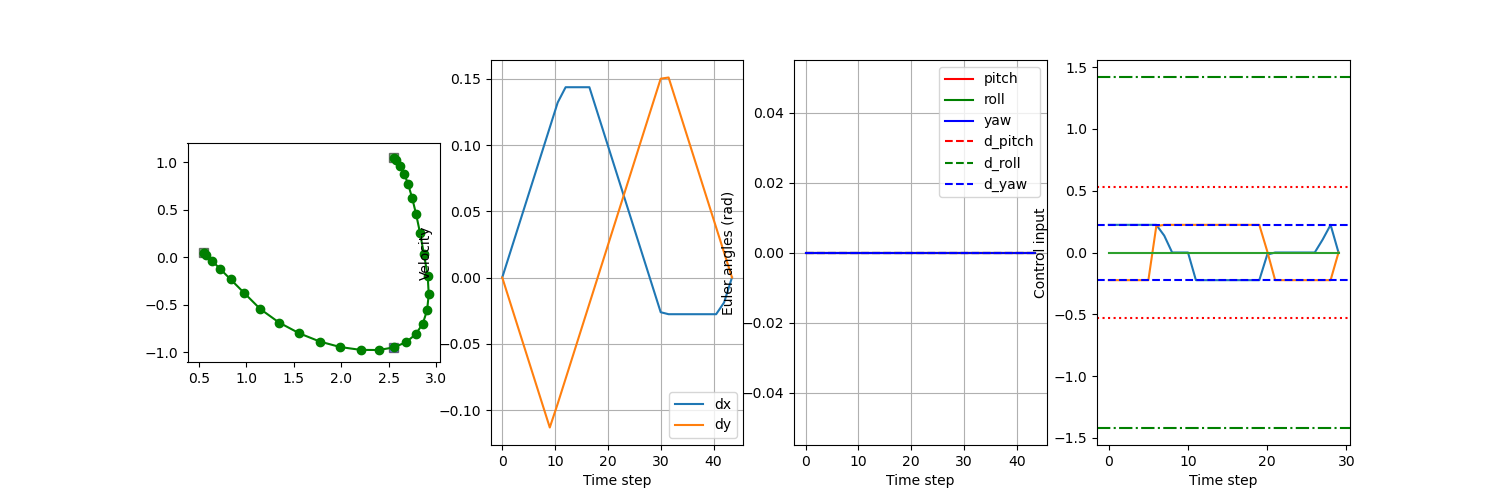
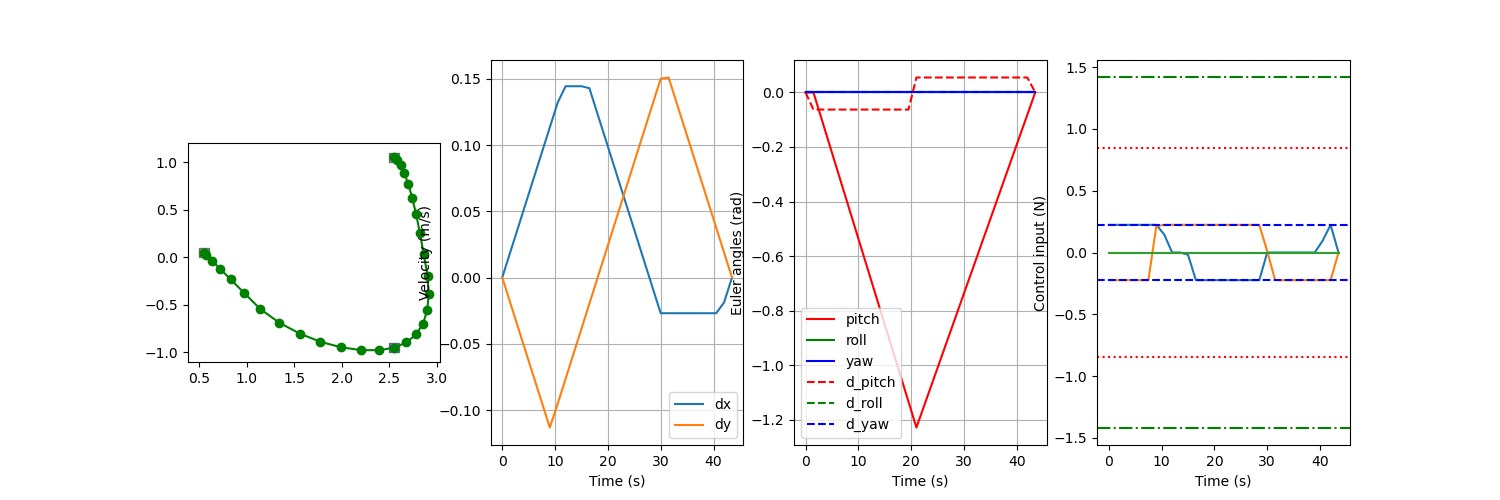
small fixes to plotting, changed rotation order

diff --git a/stl_mapping/Planning/main.py b/stl_mapping/Planning/main.py
@@ -50,25 +50,25 @@ sp_robot = LinearFreeFlyer6DoF()
 # ])
 # spec = Spec(phi, t0, tf)
 
-euler_order = 'xyz'
+euler_order = 'zyx'
 
 X0 = HyperRectangle(np.array([0.5, 0, 0]), np.array([0.6, 0.1, 0.1]))
 Xf = HyperRectangle(np.array([2.5, 1.0, 0]), np.array([2.6, 1.1, 0.1]))
 XA = HyperRectangle(np.array([2.5, -1.0, 0,  -np.pi/2-np.pi/8]), np.array([2.6, -0.9, 0.1,  -np.pi/2+np.pi/8]))
-XA = HyperRectangle(np.array([2.5, -1.0, 0]), np.array([2.6, -0.9, 0.1]))
+# XA = HyperRectangle(np.array([2.5, -1.0, 0]), np.array([2.6, -0.9, 0.1]))
 Obs = []
 World = HyperRectangle(np.array([0, -1.5, -10, -10]), np.array([4, 1.5, 10, 10]))
 phi = Pred("AND", preds=[
     Pred("G", [t0,t0], preds=[Pred("MU", preds=[Polytope(X0)], dims=[0,1,2])]),
     Pred("G", [tf,tf], preds=[Pred("MU", preds=[Polytope(Xf)], dims=[0,1,2])]),
-    Pred("F", [t0,tf], preds=[Pred("MU", preds=[Polytope(XA)], dims=[0,1,2])]), # 3: pitch, 4: roll, 5: yaw
+    Pred("F", [t0,tf], preds=[Pred("MU", preds=[Polytope(XA)], dims=[0,1,2, 3])]), # 3: pitch, 4: roll, 5: yaw
     Pred("G", [t0,tf], preds=[Pred("MU", preds=[Polytope(World)], dims=[0,1,6,7])]),
 ])
 spec = Spec(phi, t0, tf)
 
 
 # create planner
-if False:
+if True:
     opt = gp.Model("prob1")
     x_vars = opt.addMVar((N, sp_robot.n_x), lb=-np.inf, ub=np.inf, name="X")
     u_vars = opt.addMVar((N, sp_robot.n_u), lb=-np.inf, ub=np.inf, name="U")
@@ -100,7 +100,7 @@ if False:
     opt.addConstr(act_int_var == gp.quicksum([act_abs_var[i,j] for i in range(N) for j in range(sp_robot.n_u)]), name="act_int_sum")
     opt.addConstr(cost_var == 1*alpha_vars - 10000*spec.phi.rho + 0.0001*act_int_var) # quad_cost
     opt.setObjective(cost_var, gp.GRB.MINIMIZE)
-    opt.setParam('OutputFlag', 1)  # Suppress Gurobi output
+    opt.setParam('OutputFlag', 0)  # Suppress Gurobi output
     opt.optimize()
     if opt.status == gp.GRB.OPTIMAL:
         print(f"Optimal solution found")
@@ -138,9 +138,9 @@ plot_planning_results(sp_robot, t_sp, x_ff, u_ff, X0, Xf, [XA], Obs, alpha=alpha
 x_ff_quat = np.zeros((x_ff.shape[0], x_ff.shape[1] + 1))
 for i in range(x_ff.shape[0]):
     x_ff_quat[i,:] = euler_x_to_quat_x_np(x_ff[i, :],order=euler_order)
-# print(f"euler: {x_ff[:, 3:6]}")
-# print(f"quat:  {x_ff_quat[:, 3:7]}")
-# print(f"euler: {np.array([quat_to_euler_np(x[3:7], order=euler_order) for x in x_ff_quat])}")
+print(f"euler: {x_ff[:, 3:6]}")
+print(f"quat:  {x_ff_quat[:, 3:7]}")
+print(f"euler: {np.array([quat_to_euler_np(x[3:7], order=euler_order) for x in x_ff_quat])}")
 
 np.savez('stl_mapping/Planning/solutions/sp_solution_quat.npz', x_ff=x_ff_quat, u_ff=u_ff, dt=dt, alpha=alpha, times=t_sp)
 
@@ -190,6 +190,20 @@ u_max = np.max(np.abs(u_uw), axis=0)
 print(f"\nAlpha if u_fbl(x_sp,u_sp) applied to BlueROV directly: {np.max(u_max/uw_robot.U.upper_bounds)}")
 print(f"U should become {np.max(u_max)/alpha} for same alpha (was {uw_robot.U.upper_bounds[0]}) which is {(np.max(u_max)/alpha)/uw_robot.U.upper_bounds[0]*100}%")
 
+
+# # test if different backends are equal
+# uw_robot_cs = BlueROV(backend='cs')
+# uw_robot_np = BlueROV(backend='np')
+# for i in range(100):
+#     x = np.random.rand(13)
+#     u = np.random.rand(6)
+#     x_cs = cs.DM(x)
+#     u_cs = cs.DM(u)
+#     x_uw_cs = uw_robot_cs.step(x_cs, u_cs, dt)
+#     x_uw_np = uw_robot_np.step(x, u, dt)
+#     print(f"Step {i}: {x_uw_cs} == {x_uw_np}")
+
+
 # So now we have to find \phi (for now deltaT) such that
 # alpha for uw is equal to alpha for the free flyer
 # we have bilinear constraints so that is quite tricky but
@@ -211,16 +225,20 @@ if True:
     ocp.subject_to(dt_vars >= 0)
     ocp.subject_to(delta >= 0)
 
-    # for i in range(N):
-    #     ocp.subject_to(u_fbl_cs(x_vars[:,i],u_vars[:,i])[0:2] >= alpha*(uw_robot.U.lower_bounds[0:2]))
-    #     ocp.subject_to(u_fbl_cs(x_vars[:,i],u_vars[:,i])[0:2] <= alpha*(uw_robot.U.upper_bounds[0:2]))
+    for i in range(N):
+        # ocp.subject_to(u_fbl_cs(x_vars[:,i],u_vars[:,i])[0:2] >= alpha*(uw_robot.U.lower_bounds[0:2]))
+        # ocp.subject_to(u_fbl_cs(x_vars[:,i],u_vars[:,i])[0:2] <= alpha*(uw_robot.U.upper_bounds[0:2]))
+        # ocp.subject_to(u_vars[:,i] >= alpha * uw_robot.U.lower_bounds)
+        # ocp.subject_to(u_vars[:,i] <= alpha * uw_robot.U.upper_bounds)
+        ocp.subject_to(u_vars[:,i] >= alpha * u_fbl_cs(x_vars[:,i],uw_robot.U.lower_bounds))
+        ocp.subject_to(u_vars[:,i] <= alpha * u_fbl_cs(x_vars[:,i],uw_robot.U.upper_bounds))
 
     # constraints
     for i in range(N-1):
         ocp.subject_to(x_vars[:,i+1] == uw_robot.step(x_vars[:,i], u_vars[:,i], dt_vars))
     
     # enforce position equality with the free flyer
-    n_equal = 6 # first n_equal states 
+    n_equal = 7 # first n_equal states 
     for i in range(N):
         ocp.subject_to(x_vars[0:n_equal,i] <= x_uw_fbl_sp[i,0:n_equal] + delta* np.ones(n_equal))
         ocp.subject_to(x_vars[0:n_equal,i] >= x_uw_fbl_sp[i,0:n_equal] - delta* np.ones(n_equal))
@@ -240,6 +258,7 @@ if True:
         dt_uw = sol.value(dt_vars)
         t_uw = np.linspace(0, (N-1)*dt_uw, N)
         print(f"delta: {sol.value(delta)}")
+        print(f"dt_uw: {dt_uw}")
         # print(f"Solution found")
     except Exception as e:
         print(f"Solution not found: {e}")

diff --git a/stl_mapping/Utilities/plotting.py b/stl_mapping/Utilities/plotting.py
@@ -15,8 +15,8 @@ def plot_planning_results(robot, t, x, u, X0, Xf, ROIs, Obs, alpha=1.0,
 
     axs[1].plot(t, x[:, 6], label='dx')
     axs[1].plot(t, x[:, 7], label='dy')
-    axs[1].set_xlabel('Time step')
-    axs[1].set_ylabel('Velocity')
+    axs[1].set_xlabel('Time (s)')
+    axs[1].set_ylabel('Velocity (m/s)')
     axs[1].legend()
     axs[1].grid()
 
@@ -26,14 +26,14 @@ def plot_planning_results(robot, t, x, u, X0, Xf, ROIs, Obs, alpha=1.0,
     axs[2].plot(t, x[:, 9], 'r--', label='d_pitch')
     axs[2].plot(t, x[:, 10], 'g--', label='d_roll')
     axs[2].plot(t, x[:, 11], 'b--', label='d_yaw')
-    axs[2].set_xlabel('Time step')
+    axs[2].set_xlabel('Time (s)')
     axs[2].set_ylabel('Euler angles (rad)')
     axs[2].legend()
     axs[2].grid()
 
-    axs[3].plot(u[:,0])
-    axs[3].plot(u[:,1])
-    axs[3].plot(u[:,2])
+    axs[3].plot(t, u[:,0])
+    axs[3].plot(t, u[:,1])
+    axs[3].plot(t, u[:,2])
     axs[3].axhline(robot.U.lower_bounds[0], color='g', linestyle='-.', label="U_lb")
     axs[3].axhline(robot.U.upper_bounds[0], color='g', linestyle='-.')
     if hasattr(robot, 'U_effective'):
@@ -41,6 +41,6 @@ def plot_planning_results(robot, t, x, u, X0, Xf, ROIs, Obs, alpha=1.0,
         axs[3].axhline(alpha*robot.U_effective.upper_bounds[0], color='b', linestyle='--')
         axs[3].axhline(robot.U_effective.lower_bounds[0], color='r', linestyle=':', label="U_effective_lb")
         axs[3].axhline(robot.U_effective.upper_bounds[0], color='r', linestyle=':')
-    axs[3].set_xlabel('Time step')
-    axs[3].set_ylabel('Control input')
+    axs[3].set_xlabel('Time (s)')
+    axs[3].set_ylabel('Control input (N)')
     plt.savefig(path)

diff --git a/stl_mapping/Control/controllers/mpc_wrench.py b/stl_mapping/Control/controllers/mpc_wrench.py
@@ -44,7 +44,7 @@ from ..models_2d.atmos_wrench import atmos_model_wrench
 class MpcWrench():
     def __init__(self):
         # Define the controller parameters
-        self.dt = 0.1               # MPC time step [s]
+        self.dt = 0.2               # MPC time step [s]
         self.Nx = 30                # Prediction horizon, states             
         self.Nu = 30                # Prediction horizon, inputs
         self.Q = np.diag([          # State weighting matrix
@@ -52,7 +52,7 @@ class MpcWrench():
             2e0, 2e0, 1e0, 
             1e2, 
             5e0, 5e0, 5e0])             
-        self.R = 0.1*np.diag([          # State weighting matrix
+        self.R = np.diag([          # State weighting matrix
             1e0, 1e0, 1e0,
             1e0, 1e0, 1e0]) 
         self.P = 20 * self.Q        # Terminal state weighting matrix

diff --git a/stl_mapping/Utilities/Robots.py b/stl_mapping/Utilities/Robots.py
@@ -123,7 +123,8 @@ class LinearFreeFlyer6DoF(Robot):
             np.array([max_torque]*3) * scale_torque
         ])
         self.U = HyperRectangle(-u_max, u_max)
-        self.D = HyperRectangle(np.array([-1, -1, -1]),np.array([1, 1, 1]))
+        max_floor_force = (36*self.mass)/1000
+        self.D = HyperRectangle(np.array(3*[-max_floor_force]),np.array(3*[max_floor_force]))
 
         # self.U_effective = minkowski_difference(self.U, self.K@self.D)
         # TODO: deal with the fact that K and D are not of same dimension
@@ -160,6 +161,8 @@ class LinearFreeFlyer6DoF(Robot):
 
 class FreeFlyer(Robot):
     def __init__(self, backend='np'):
+        # state: x = [p, q, v, w]
+        # where q is a scalar first unit quaternion
         nx = 13
         nu = 6
         super().__init__(n_x=nx, n_u=nu)

diff --git a/stl_mapping/Utilities/sets.py b/stl_mapping/Utilities/sets.py
@@ -139,8 +139,8 @@ class Polytope():
             self.b[i] = -rectangle.lower_bounds[i]
             self.H[i + self.dim, i] = 1
             self.b[i + self.dim] = rectangle.upper_bounds[i]
-        print(f"\nPolytope created with {self.N_faces} faces and dimension {self.dim}")
-        print(f"H: {self.H}, b: {self.b}")
+        # print(f"\nPolytope created with {self.N_faces} faces and dimension {self.dim}")
+        # print(f"H: {self.H}, b: {self.b}")
 
     def print(self):
         return f"Area_[faces={self.N_faces}]"

diff --git a/stl_mapping/Control/mpc_node.py b/stl_mapping/Control/mpc_node.py
@@ -94,7 +94,7 @@ class MPCNode(Node):
         self.get_logger().info("MPC publishers initialized successfully")
 
         # Create the MPC solver and create timer callback to solve
-        timer_period = 0.5 # seconds
+        timer_period = 0.2 # seconds
         self.timer = self.create_timer(timer_period, self.cmdloop_callback)
 
         timer_period_offboard = 0.1 # seconds
